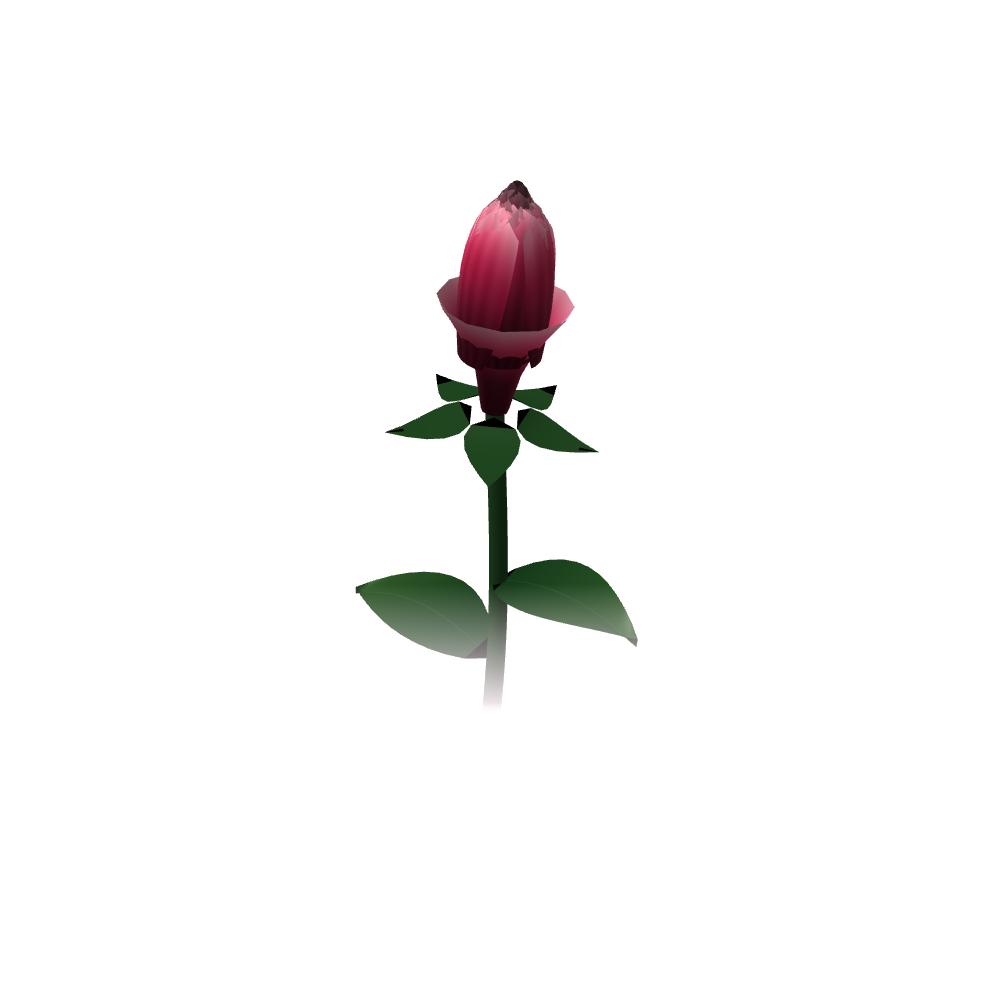
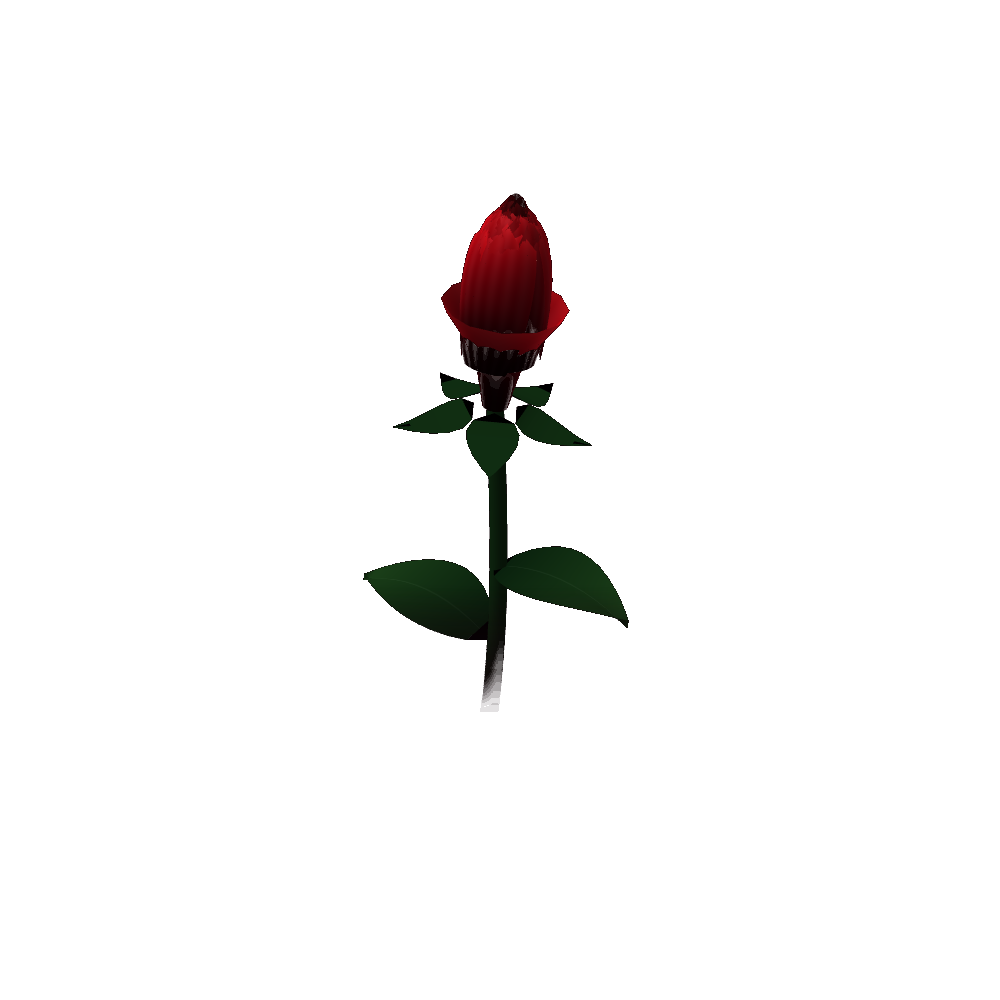
Deep red velvet rose on a dark card, rolled petal lips
Claude-Session: https://claude.ai/code/session_01FC4sCrQXk4htnob6MgsH5o

Changed region(s): [[0.372, 0.186, 0.589, 0.496], [0.341, 0.527, 0.651, 0.713]]

diff --git a/gulegul-3d-flower/rose.js b/gulegul-3d-flower/rose.js
@@ -15,9 +15,9 @@
 
   var GOLD = Math.PI * (3 - Math.sqrt(5));
   var QUALITY = {
-    low:    { petals: 24, nu: 10, nv: 8,  dust: 22, dpr: 1.5 },
-    medium: { petals: 32, nu: 14, nv: 11, dust: 32, dpr: 2 },
-    high:   { petals: 40, nu: 18, nv: 14, dust: 44, dpr: 2 }
+    low:    { petals: 28, nu: 12, nv: 10,  dust: 22, dpr: 1.5 },
+    medium: { petals: 36, nu: 16, nv: 13, dust: 32, dpr: 2 },
+    high:   { petals: 46, nu: 22, nv: 18, dust: 44, dpr: 2 }
   };
 
   function pickQuality() {
@@ -88,9 +88,11 @@
             var th = phi + x * hw * wf;
             var rho = R * (0.62 + 0.38 * vv) + oo * 0.5 * Math.pow(vv, 2.0) + 0.1 * oo * x * x * vv;
             rho *= 1 - (1 - oo) * (closed ? 0.8 : 0.38) * vv * vv;       // petals close over the top
-            rho += 0.035 * oo * Math.sin(x * 5 + k) * Math.pow(vv, 3);   // ruffled rim
-            var y = y0 + H * Math.sin(vv * 1.35 * (1 - 0.45 * oo)) - oo * 0.22 * Math.pow(vv, 3)
-                  + 0.05 * x * x * vv + 0.02 * rnd;
+            var lip = sm(0.7, 1.0, vv);                                   // rolled-back lip
+            rho += 0.05 * oo * Math.sin(x * 4.2 + k * 1.7) * Math.pow(vv, 3.5) + 0.2 * oo * lip * lip;
+            var y = y0 + H * Math.sin(vv * 1.35 * (1 - 0.45 * oo)) - oo * 0.2 * vv * vv
+                  + oo * 0.2 * lip + 0.05 * x * x * vv + 0.02 * rnd
+                  + 0.035 * oo * Math.sin(x * 3.1 + k * 2.3) * lip;
             return [rho * Math.cos(th), y, rho * Math.sin(th)];
           };
         }
@@ -160,27 +162,28 @@
     '  vec3 L = normalize(uLight);',
     '  vec3 col; float ao = 1.0; float sheen = 0.0;',
     '  if (kind < 0.5) {',
-    '    vec3 deep = vec3(0.50,0.05,0.17), mid = vec3(0.82,0.13,0.31), lite = vec3(0.95,0.50,0.60), edge = vec3(0.99,0.78,0.82);',
-    '    col = mix(deep, mid, smoothstep(0.0,0.5,v));',
-    '    col = mix(col, lite, smoothstep(0.5,1.0,v) * 0.85);',
-    '    col = mix(col, edge, pow(v,7.0) * 0.55);',
-    '    col *= 0.62 + 0.38 * smoothstep(0.0, 0.45, t);',
-    '    col += 0.035 * sin((s-0.5)*34.0 + seed) * (1.0 - v*0.5);',
-    '    ao = mix(0.42,1.0,smoothstep(0.0,0.75,v)) * mix(0.5,1.0,smoothstep(0.0,0.85,t));',
-    '    sheen = 0.5;',
+    '    vec3 deep = vec3(0.14,0.0,0.02), mid = vec3(0.52,0.02,0.06), lite = vec3(0.66,0.03,0.07), edge = vec3(0.84,0.09,0.12);',
+    '    col = mix(deep, mid, smoothstep(0.0,0.45,v));',
+    '    col = mix(col, lite, smoothstep(0.45,1.0,v) * 0.8);',
+    '    col = mix(col, edge, pow(v,6.0) * 0.55);',
+    '    col *= 0.55 + 0.45 * smoothstep(0.0, 0.5, t);',
+    '    col += 0.025 * sin((s-0.5)*36.0 + seed) * (1.0 - v*0.4);',
+    '    ao = mix(0.30,1.0,smoothstep(0.0,0.7,v)) * mix(0.42,1.0,smoothstep(0.0,0.9,t));',
+    '    sheen = 1.0;',
     '  } else {',
-    '    vec3 g1 = vec3(0.09,0.28,0.12), g2 = vec3(0.30,0.52,0.24);',
+    '    vec3 g1 = vec3(0.04,0.15,0.06), g2 = vec3(0.16,0.36,0.14);',
     '    col = mix(g1, g2, kind > 1.5 ? v*0.8 : 0.35);',
-    '    if (kind > 1.5) col += 0.05 * smoothstep(0.02,0.0,abs(s-0.5));',
-    '    ao = 0.75;',
+    '    if (kind > 1.5) col += 0.04 * smoothstep(0.02,0.0,abs(s-0.5));',
+    '    ao = 0.8;',
     '  }',
     '  float ndl = dot(N,L);',
-    '  float diff = 0.38 + 0.62 * smoothstep(-0.35, 1.0, ndl);',
-    '  float back = max(0.0, -dot(N,L)) * 0.22;',
-    '  float rim = pow(1.0 - max(dot(N,V),0.0), 2.5);',
+    '  float diff = 0.30 + 0.70 * smoothstep(-0.4, 1.0, ndl);',
+    '  float back = max(0.0, -dot(N,L)) * 0.28;',
+    '  float ndv = max(dot(N,V),0.0);',
+    '  float rim = pow(1.0 - ndv, 3.0);',
     '  vec3 H = normalize(L + V);',
-    '  float spec = pow(max(dot(N,H),0.0), 36.0) * 0.16;',
-    '  vec3 c = col * diff * ao + col * back + vec3(1.0,0.72,0.78) * rim * 0.20 * sheen + vec3(1.0,0.95,0.9) * spec * ao;',
+    '  float spec = pow(max(dot(N,H),0.0), 28.0) * 0.12;',
+    '  vec3 c = col * diff * ao + col * back + vec3(0.75,0.05,0.10) * rim * 0.38 * sheen * (0.4 + 0.6 * ao) + vec3(1.0,0.82,0.8) * spec * ao * sheen;',
     '  gl_FragColor = vec4(c, 1.0);',
     '}'
   ].join('\n');
@@ -199,7 +202,7 @@
     '  q.z += cos(p * 5.0 + ph * 31.0) * 0.2;',
     '  vA = (p <= 0.0 || p >= 1.0) ? 0.0 : smoothstep(0.0, 0.08, p) * smoothstep(1.0, 0.85, p);',
     '  vRot = p * 7.0 + ph * 20.0;',
-    '  vC = mix(vec3(0.78,0.10,0.27), vec3(0.96,0.52,0.62), fract(ph * 5.1));',
+    '  vC = mix(vec3(0.50,0.02,0.07), vec3(0.86,0.12,0.18), fract(ph * 5.1));',
     '  gl_Position = uVP * vec4(q,1.0);',
     '  gl_PointSize = uPx * (0.7 + 0.8 * fract(ph * 3.7)) / gl_Position.w;',
     '}'
@@ -326,7 +329,7 @@
     function draw() {
       var asp = W / H, fov = 34 * Math.PI / 180;
       // Fit the whole bloom (radius ~1.5, height ~2) inside the container, any aspect.
-      var halfH = 2.0, halfW = 1.9;
+      var halfH = 2.15, halfW = 2.1;
       var distH = halfH / Math.tan(fov / 2), distW = halfW / (Math.tan(fov / 2) * asp);
       var dist = Math.max(distH, distW);
       var cam = [0, 0.0, dist];

diff --git a/gulegul-3d-flower/index.html b/gulegul-3d-flower/index.html
@@ -45,7 +45,7 @@ h1 em{font-style:italic;color:var(--primary)}
 .btn svg{width:18px;height:18px;flex:none}
 
 /* The rose is sized by its container, never the viewport — this is what stops the clipped hero. */
-.hero-art{position:relative;width:100%;aspect-ratio:1/1;max-height:70svh;min-height:300px;justify-self:center;overflow:hidden;contain:layout paint}
+.hero-art{position:relative;border-radius:28px;background:radial-gradient(75% 65% at 50% 38%,#4a0c1a 0%,#230610 55%,#12030a 100%);box-shadow:0 30px 70px -30px rgba(131,24,67,.55),inset 0 1px 0 rgba(255,255,255,.12);width:100%;aspect-ratio:1/1;max-height:70svh;min-height:300px;justify-self:center;overflow:hidden;contain:layout paint}
 @media(min-width:960px){.hero-art{aspect-ratio:auto;height:min(78svh,720px);max-height:none}}
 .hero-art .rose-canvas,.hero-art .rose-poster{position:absolute;inset:0;width:100%;height:100%;display:block}
 .hero-art .rose-poster{object-fit:contain;opacity:1;transition:opacity .6s ease}
@@ -74,6 +74,8 @@ h1 em{font-style:italic;color:var(--primary)}
 .chip-b{right:4%;bottom:14%}
 @media(min-width:960px){.chip{padding:14px 20px;font-size:13px}.chip b{font-size:20px}.chip-a{left:2%;top:18%}.chip-b{right:2%;bottom:20%}}
 body.poster-mode .nav,body.poster-mode .chip,body.poster-mode .copy,body.poster-mode .hero-art .rose-poster{display:none!important}
+body.poster-mode{background:#12030a}
+body.poster-mode .hero-art{background:none;box-shadow:none;border-radius:0}
 body.poster-mode .hero{background:none;padding:0;min-height:0;display:block}
 body.poster-mode .hero-grid{display:block;max-width:none}
 </style>
